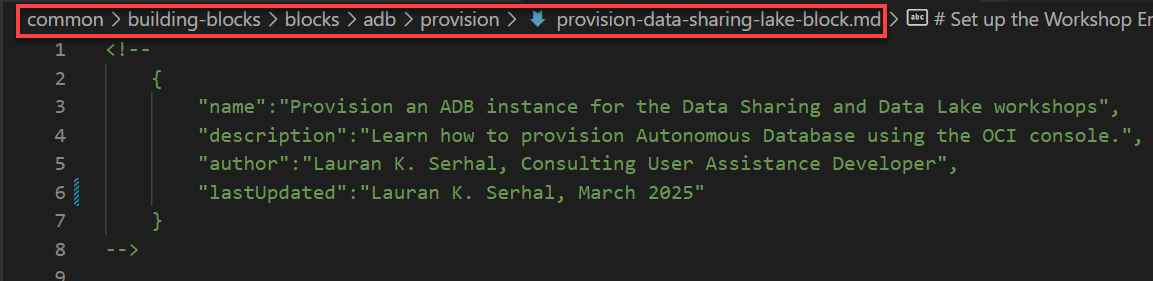
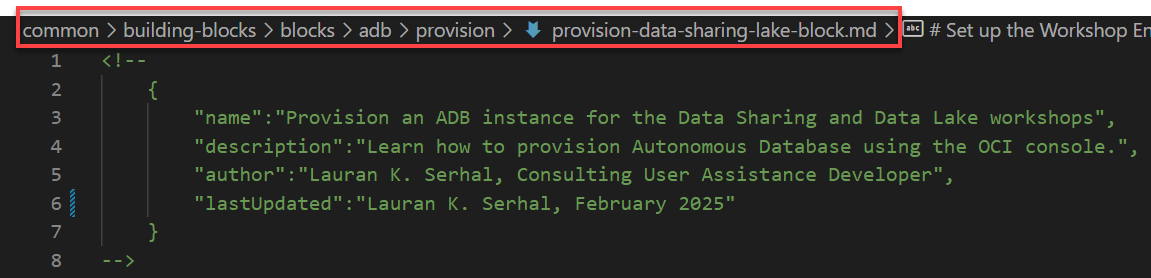
more updates

diff --git a/building-blocks/how-to-author-with-blocks/how-to-author-with-blocks.md b/building-blocks/how-to-author-with-blocks/how-to-author-with-blocks.md
@@ -1,4 +1,4 @@
-# Author LiveLabs Workshops with Building (Common) Blocks and Tasks
+# Author LiveLabs Workshops with Building Blocks and Tasks
 
 ## Introduction
 
@@ -20,7 +20,28 @@ As a LiveLabs workshop author, there are two types of components you may want to
 
 >**Note:** Both Building **Blocks** and **Tasks** are located in the **`common`** repository; therefore, in this workshop we will refer to Building Blocks and Tasks as **`common`** **blocks** and **tasks** interchangeably.
 
-Let's look at the folder structure for the Building Blocks and Tasks:
+As an example, let's say all of your ADB workshops have a Setup Lab that shows how to navigate to the Oracle Database service and then how to provision a new ADB instance. If you don't use Building Blocks and Tasks, you'll have to create or use the same .md file in _all_ of your ADB workshops. If you need to make changes to the lab and tasks, you'll need to make the changes in every lab and task in every ADB workshop.
+
+If you use Building Blocks and Tasks, you can create the Building Block and Tasks only once and then reference them in every workshop that uses them. If you need to make changes in the future, you only make the changes to the Building Block and Tasks once. _Any workshop that references the Building Block and Tasks_ will automatically reflect the new changes. That is Reusability!
+
+Let's examine these two concepts and how they map to your workshop development. Just as a _lab_ in your workshop is comprised of _multiple tasks_, a _Block_ is comprised of _multiple Tasks_.
+
+For example, we have a **provision-console.md** _common block_ which uses _two common tasks_:
+
+* **goto-service-body.md:** Selects the ADB Service from the OCI navigation menu
+* **provision-console-body.md:** Creates the ADB instance
+
+![Blocks and Tasks](images/lab-to-block-diagram.png " ")
+
+In this case, there is a **Building Block** that directly maps to this **lab**. You can simply take this Building Block, add it to your workshop's `manifest.json` file, update the LiveLab variables if needed (the database name, # CPUs, and so on) to match your lab's requirements, and your done! In the future, when you make updates to ADB provisioning, your lab will update automatically when the Building Block is updated.
+
+**Tasks** map to the individual lab tasks. In this case, there are two Tasks in the Block. Because a Task is a component, it can be used in this or multiple Blocks. In addition, its usage is not limited to Blocks. You can use the Task directly in your lab.
+
+Having this Task is really useful because numerous labs (including ADB Provisioning) navigate to the ADB Service. Since this is a common task, we've created a Task for it. When that navigation changes, the Task will be updated and all labs and Blocks that used that Task will be updated automatically.
+
+**Blocks and Tasks will simplify your workshop authoring and on-going maintenance.**
+
+Let's look at the folders structure for the Building Blocks and Tasks:
 
   ![Building Blocks and Tasks structure](images/common-blocks-tasks-structure.png " ")
 
@@ -45,7 +66,7 @@ This is the folder that contains all common tasks.
 
 ### **Pre-requisite 1**
 
-To use building blocks, your repositories where you save your LiveLabs workshops (such as the adb, common, and other folders) must be under a root folder that contains all of the repositories (repos) that you need for your workshops. You can choose your own root folder name. In our example, we created a parent folder named **livelabs-clones** folder under the **Documents** folder in MS-Windows. We will be creating workshops that will use the adb, common, oci, and sprints repos.
+To use building blocks, your cloned repositories where you save your LiveLabs workshops (such as the adb, common, and other folders) must be under a root folder that contains all of the cloned repositories (repos) that you need for your workshops. You can choose your own root folder name. In our example, we created a parent folder named **livelabs-clones** folder under the **Documents** folder in MS-Windows. We will be creating workshops that will use the adb, common, oci, pts, and sprints repos.
 
 ![Folders structure](images/folder-structure.png =65%x*)
 
@@ -59,45 +80,16 @@ You need to _fork_ and _clone_ the **common** repo and save it under the parent 
 
 You need to _enable_ your _common_ fork so that you can preview your changes on your fork using **Live Server**. For detailed information on enabling a fork, see the [Fork a repo, Set up fork pages, and Clone an oracle-livelabs Repository](https://otube.oracle.com/media/Fork+and+Clone+an+oracle-livelabs+Repository/1_5i73l958) video.
 
-In addition to using Live Server to preview your changes, you can use the **Open Preview** feature in Visual Studio Code as follows.
-
-1. Right-click the **.md** file that you'd like to preview, and then click **Open Preview** from the context menu.
-
-  ![Right-click the .md file](images/right-click-md-file.png =80%x*)
-
-2. The selected .md file **Preview file-name** tab is displayed. 
-
-  ![The Preview tab](images/preview-tab.png " ")
-
-    >**Note:** If you continue to make changes to the selected .md file, the changes will be reflected in the **Preview** tab.
-
-Let's examine these two concepts and how they map to your workshop development:
-
-![Blocks and Tasks](images/lab-to-block.png " ")
-
-Just as a _lab_ is comprised of _multiple tasks_, a _Block_ is comprised of multiple Tasks.
-
-For example, the **provision-console.md** common block has two common tasks:
-
-* **goto-service-body.md:** Selects the ADB Service from the OCI menu
-* **provision-console-body.md:** Creates the ADB instance
-
-In this case, there is a **Building Block** that directly maps to this lab. You can simply take this Building Block, add it to your workshop's `manifest.json` file, update the LiveLab variables (the database name, # CPUs, and so on) to match your lab's requirements, and your done. In the future, when updates are made to ADB provisioning, your lab will update automatically when the Building Block is updated.
-
-**Tasks** map to the individual lab tasks. In this case, there are two Tasks in the Block. Because a Task is a component, it can be used in this or multiple Blocks. In addition, its usage is not limited to Blocks. You can use the Task directly in your lab.
-
-Having this Task is really useful because numerous labs (including ADB Provisioning) navigate to the ADB Service. Since this is a common task, we've created a Task for it. When that navigation changes, the Task will be updated and all labs and Blocks that used that Task will be updated automatically.
-
-Hope it's clear - Blocks and Tasks will simplify your workshop authoring and on-going maintenance.
+![Create and enable the common fork](images/create-common-fork.png " ")
 
 ## Task 3: How common blocks use common tasks
 
 Let's take a look at the markdown for a Provisioning an Autonomous Database common block named **`provision-console.md`** that uses two common tasks:
 
-* `goto-service-body.md`
-* `provision-console-body.md`
+* **`goto-service-body.md`**
+* **`provision-console-body.md`**
 
-![provision-console common block](images/folder-structure.png " ")
+![provision-console common block](images/provision-console.png " ")
 
 **The following is the markdown specific to this common block.**
 
@@ -116,11 +108,9 @@ As you can see, the markdown for this block is pretty simple. It includes two co
 
 1. Go to the service, and
 
-2. provision an ADB instance using the Console.
+2. Provision an ADB instance using the Console.
 
 It may be that the format of this Block does not meet your workshop requirements. No problem. Your workshop markdown can use these Tasks in a similar way to the Building Block. Simply include the Task within your markdown.
-
-## Task 4: Provision using the OCI Console Example
 
 **The above markdown is rendered as follows:**
 
@@ -132,9 +122,10 @@ Let's create an ADB instance.
 ### Task 2: Create the Autonomous Database instance
 [](include:adb-provision-body.md)
 
-## Task 5: The workshop manifest and variables
+## Task 4: The workshop manifest and variables files
 
-### variables.json
+### The variables.json file
+
 Workshops have different requirements. Database names, OCPUs and other options may differ. LiveLabs uses variables to allow authors to update content. It may be that you need to make updates to the Task in order to make it more flexible; please share any required updates with the LiveLabs team.
 
 The master list of all variables used in Blocks are stored in the [/building-blocks/variables/variables.json](../variables/variables.json) file. Copy this variables.json file to your own workshop directory if the default variable values need changing:
@@ -152,7 +143,8 @@ variables.json
  }
  ```
 
-###  manifest.json
+### The manifest.json file
+
 The manifest.json file describes the content of your workshop. It also contains references that will be used in your markdown. These references include:
 
 * ```include```: these are markdown files that will be referenced. Tasks (or Blocks) will be listed here
@@ -181,6 +173,7 @@ The manifest.json file describes the content of your workshop. It also contains 
 
 ## Acknowledgements
 
-* **Author:** Lauran K. Serhal, Consulting User Assistance Developer
-* **Contributor:** Marty Gubar, Product Manager
+* **Authors:** 
+    * Lauran K. Serhal, Consulting User Assistance Developer
+    * Marty Gubar, Product Manager
 * **Last Updated By/Date:** Lauran K. Serhal, March 2025

diff --git a/building-blocks/how-to-author-with-blocks/creating-blocks-tasks.md b/building-blocks/how-to-author-with-blocks/creating-blocks-tasks.md
@@ -12,53 +12,70 @@ Very frequently, a lab has tasks that are very generic. For example, Navigating 
 
 Don't forget to use tasks when creating your block :).
 
+Let's review the process of creating and using building blocks at high level before we delve into the details.
+
+  ![Building Blocks and Tasks overview](images/building-blocks-overview-diagram.png " ")
+
 ### Prerequisites
 
 Ensure that have met the pre-requisites covered in the **Author LiveLabs Workshops with Building (Common) Blocks and Tasks lab > Task 2: Pre-requisites to Using Building Blocks and Tasks**.
 
-## Task 1: Create your lab's markdown file
+## Task 1: Create a building block
 
-Create your workshop as you normally would. Try to keep content generic enough so that it can be used in multiple contexts. And, it may mean using variables instead of hardcoding names. Create the common block or task in the appropriate folder (repo). For example, if you are creating a common task for an ADB workshop, you'll create the common task in the **`common > building-blocks > tasks > adb`** folder.
+Create your workshop as you normally would. Try to keep content generic enough so that it can be used in multiple contexts. And, it may mean using variables instead of hardcoding names. Create the common block in the appropriate folder (repo). For example, if you are creating a common block for an ADB workshop, you'll create the common block in the **`common > building-blocks > blocks > adb`** folder.
 
-To create a new folder or file in the your chosen folder such as the adb folder, click the **New File...** or **New Folder...** icons in Visual Studio Code.
+1. To create a new folder or file for your building block in the your chosen folder such as the adb folder, click the **New File...** or the **New Folder...** icons in Visual Studio Code.
 
-![Create a new common block or task](images/create-file-folder-icon-vsc.png " ")
+    ![Create a new common block or task](images/create-file-folder-icon-vsc.png " ")
 
-In our example, we will create the new common block in a folder named **provision**.
+2. In our example, we will create a new common block named **`provision-data-sharing-lake-block.md`** in an existing folder named **provision**. This folder will eventually contain different variations of the the provisioning block.
 
-![Create the common block in the provision folder](images/create-common-block.png =50%x*)
+    ![Create the common block in the provision folder](images/create-common-block.png =50%x*)
 
-## Task 2: Add the required comment block to your markdown file
+3. Add the required comment block at the beginning of the new `.md` file. This comment block provides a name, description, author, and last updated fields for your block or task. **The documentation's master list of building blocks and tasks that is listed in this workshop is derived from these comment blocks**.
 
-The one addition you'll need to make to your markdown is a comment block at the beginning of the file. This comment block provides a name, description, author, and last updated fields for your block or task. **The documentation's master list of blocks and tasks in listed in this workshop is derived from these comment blocks**.
+    ![Add the comment block to the .md file](images/comment-block.png " ")
 
-![Add the comment block to the .md file](images/comment-block.png " ")
+    **_Important:_** _You must use the exact spelling of the comment block fields names. Pay attention to the **`lastUpdated`** field where the camel case naming convention is used. If you don't use the exact spelling, your common block or task will not appear in the list of available blocks or tasks._
 
-**_Important:_** _You must use the exact spelling of the comment block fields names. Pay attention to the **`lastUpdated`** field where the camel case naming convention is used. If you don't use the exact spelling, your common block or task will not appear in the list of available blocks or tasks._
+    The information that you provide in the comment block will be displayed in this **LiveLabs Building Blocks** workshop in the **List of Building Blocks and Tasks** lab under **List of Building Blocks**.
 
-## Task 3: Enter the content of the building block
+    ![List of building blocks](images/list-building-blocks.png " ")
 
-1. Enter the remaining content of the building block. Here's the complete building block. Notice that this building block uses two common tasks! We will cover how to create and use common tasks a little bit later.
+4. Enter the remaining content for the building block. Here's the complete building block. Notice that this building block uses two common tasks! We will cover how to create and use common tasks later.
 
     ![The complete building block](images/completed-building-block-example.png =75%x*)
 
-2. Save your markdown file to the appropriate repo folder (block or task) under the **building-blocks** root folder to which you already navigated. Each cloud service has its own folder in either the blocks or tasks parent folder. If your cloud service's folder doesn't exist yet, then simply add a new folder. In this example, we created the building block in the using the following path: 
+5. Save your building block's `.md` file to the appropriate repo folder under the **building-blocks** root folder to which you already navigated. Each cloud service has its own folder in either the blocks or tasks parent folder. If your cloud service's folder doesn't exist yet, then simply add a new folder.
 
-C:\Users\LSERHAL\Documents\livelabs-clones\common\building-blocks\blocks\adb\provision\provision-data-sharing-lake-block.md 
+    ```
+    common
+    .. building-blocks
+    .... blocks
+    ........adb
+    ........oac
+    ........oml
+    .... tasks
+    ........adb
+    ........iam
+    ........oml
+    ```
 
-```
-adb
-.. building-blocks
-.... blocks
-........adb
-........oac
-.... tasks
-........adb
-........iam
+6. Preview the newly created building block using Live Server and make any necessary changes.
 
-```
+## Task 2: Use building blocks in other workshops
 
-## Task 4: Regenerate the documentation
+To use the building block in other workshops, simply add a reference to the building block in the workshop's `manifest.json` file as follows:
+
+![Common block reference](images/common-block-reference.png " ")
+
+In the above example, you simply add an entry for the common block in the workshop's manifest.json file. The **filename** attribute points to the exact location of this common block in the common repo. That's all you need to do to use a common block!
+
+Here's a complete example of the workshop that uses this common block and another common block named cleanup.md.
+
+![Building blocks example](images/use-common-blocks.png " ")
+
+## Task 3: Regenerate the documentation
 
 After you create (or modify or delete too) new blocks and tasks, regenerate the documentation by running the **generate-documentation.py** python script found in the `/common/building-blocks/scripts` folder. This script generates much of the how-to-author-with-blocks documentation.
 
@@ -88,7 +105,7 @@ After you create (or modify or delete too) new blocks and tasks, regenerate the 
     * `how-to-author-with-blocks.md`
     * `manifest.json`
 
-## Task 5: Push your changes to your fork and production
+## Task 4: Push your changes to your fork and production
 
 1. Push your changes to the common repo to your fork. In this example, we are using GitHub Desktop.
 
@@ -104,12 +121,10 @@ After you create (or modify or delete too) new blocks and tasks, regenerate the 
 
     https://oracle-livelabs.github.io/common/building-blocks/how-to-author-with-blocks/workshop/index.html?lab=how-to-author-with-blocks
 
-4. 
-
 ## Acknowledgements
-* **Author:**
+* **Authors:**
     * Lauran K. Serhal, Consulting User Assistance Developer
-* **Contributors:**
     * Marty Gubar, Product Manager
+* **Contributor:**
     * Kevin Lazarz, Senior Manager, Product Management
 * **Last Updated By/Date:** Lauran K. Serhal, March 2025

diff --git a/building-blocks/blocks/adb/provision/provision-data-sharing-lake-block.md b/building-blocks/blocks/adb/provision/provision-data-sharing-lake-block.md
@@ -3,7 +3,7 @@
         "name":"Provision an ADB instance for the Data Sharing and Data Lake workshops",
         "description":"Learn how to provision Autonomous Database using the OCI console.",
         "author":"Lauran K. Serhal, Consulting User Assistance Developer",
-        "lastUpdated":"Lauran K. Serhal, March 2025"
+        "lastUpdated":"Lauran K. Serhal, February 2025"
     }
 -->
 

diff --git a/building-blocks/blocks/adb/provision/provision-console.md b/building-blocks/blocks/adb/provision/provision-console.md
@@ -3,7 +3,7 @@
         "name":"Create an Oracle Autonomous Database",
         "description":"Learn how to provision Autonomous Database using the OCI console.",
         "author":"Lauran K. Serhal, Consulting User Assistance Developer",
-        "lastUpdated":"Lauran K. Serhal, February 2025"
+        "lastUpdated":"Lauran K. Serhal, March 2025"
     }
 -->
 
